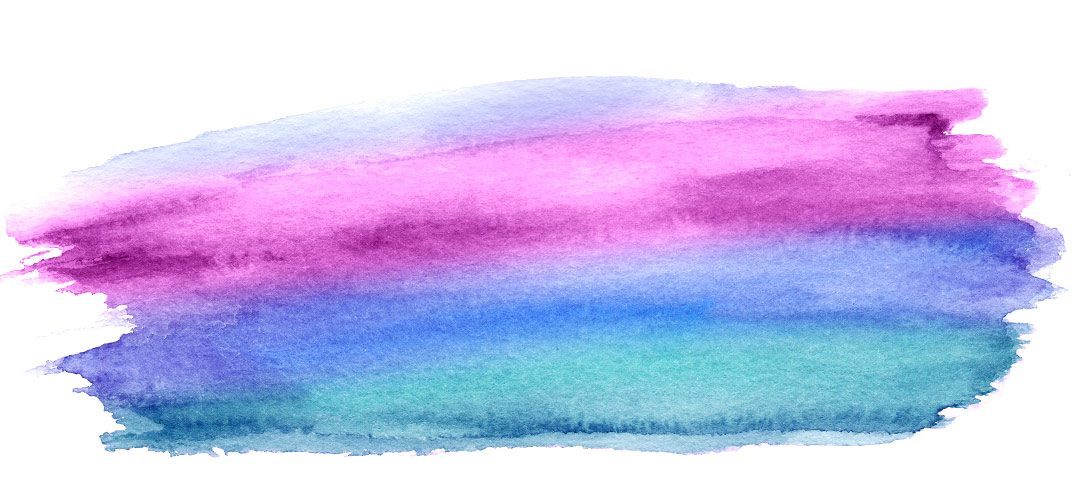
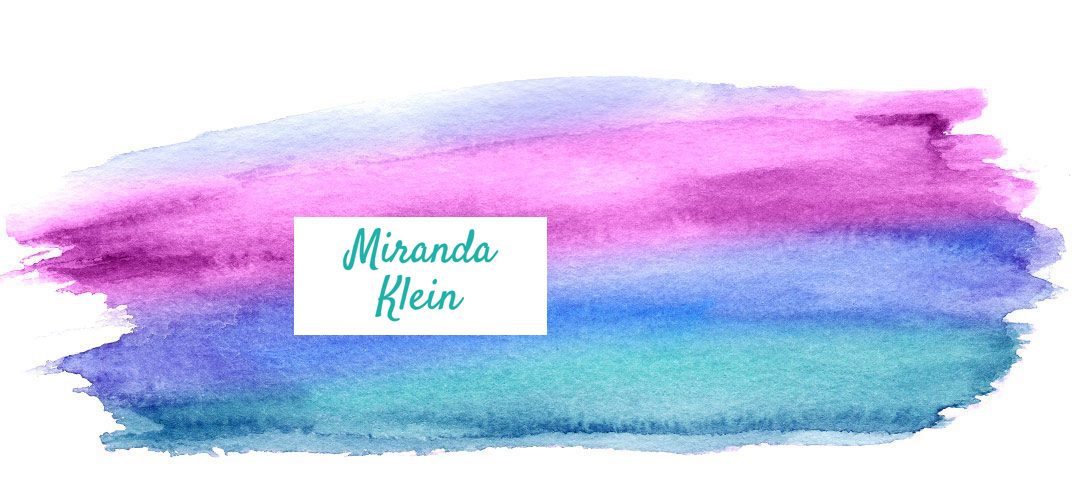
updated styling

Changed region(s): [[0.2444, 0.4348, 0.5194, 0.7143]]

diff --git a/src/App.css b/src/App.css
@@ -6,11 +6,18 @@
   display: block;
 
 }
-
-.App-header {
+.header{
   width: 100%;
-  height: 300px;
+  margin: 20px;
+}
+.App-header {
+  margin: auto;
+  padding: 20px;
+  text-align: center; 
+  width: 20%;
+  height: auto;
   color: white;
+  display: block;
 }
 
 
@@ -41,7 +48,7 @@ li.nav-list a {
 }
 
 /* Change the link color to #111 (black) on hover */
-li.nav-list a:hover {
+li.nav-list :hover {
   background-color: lightslategrey;
   color: white;
   
@@ -57,6 +64,7 @@ li.nav-list a:hover {
   background-color: blue;
   display: flex;
   flex-wrap: wrap;
+  height: auto;
 }
 .photo-container{
   width: 40%;
@@ -86,11 +94,11 @@ margin: 10px;
 .contact{
   width: 100%;
   display: block;
+  background-color: lightyellow;
 }
 ul.contact-info{
-  background-color: lightyellow;
-  list-style: none;
-  font-size: 2vw;
+   list-style: none;
+  font-size: 25px;
   padding: 20px 20px;
   text-align: center;
 }
@@ -121,6 +129,11 @@ ul.contact-info{
 /*~~~~~Media Query for Phone/Tablet~~~~~*/
 @media only screen and (max-width : 873px){
  
+ 
+  /*Header*/
+  .App-header{
+    width: 40%;
+  }
 
   /*Nav*/
   .nav-bar{
@@ -136,7 +149,10 @@ ul.contact-info{
   width: 200px;
   background-color: #f1f1f1;
 }
-
+li.nav-list {
+  width: 100%;
+  font-size: 80%;
+}
 li.nav-list a {
   display: block;
   color: gray;
@@ -148,12 +164,18 @@ li.nav-list a {
   .bio{
     width: 70%;
     float: right;
+    height: 100%;
   }
   .bio-container{
     width: 100%;
   }
   .photo-container{
     width: 100%;
+  }
+
+  /*Contact*/
+  ul.contact-info{
+    font-size: 15px;
   }
 }
 

diff --git a/src/components/bio.js b/src/components/bio.js
@@ -8,7 +8,22 @@ class Bio extends Component{
                     <img src={this.props.photo} alt="Miranda" className="miranda-photo"></img>
                 </div> 
                 <div className="bio-container">
-                {this.props.name} is a Front End Web Developer living in the Denver Metro since 2015.
+                    Fetter grüne, du Laub,
+                    Am Rebengeländer
+                    Hier[mein Fenster herauf!] 1
+                    Gedrängter quellet,
+                    Zwillingsbeeren, und reifet
+                    Schneller und glänzend[voller] 2!
+                        Euch brütet der Mutter Sonne
+                    Scheideblick, euch umsäuselt
+                    Des holden Himmels
+                    Fruchtende Fülle;
+                    Euch kühlet des Mondes
+                    Freundlicher Zauberhauch,
+                    Und euch betauen, ach!
+                        Aus diesen Augen
+                    Der ewig belebenden Liebe
+                    Voll schwellende Tränen.
                 </div>
             </div>
         );

diff --git a/src/App.js b/src/App.js
@@ -2,6 +2,7 @@ import React, { Component } from 'react';
 import { Route } from 'react-router-dom';
 import watercolor from './images/watercolor.jpg';
 import Miranda from './images/miranda.jpg';
+import logo from './images/logo2.png';
 import './App.css';
 import Bio from './components/bio.js';
 import Nav from './components/nav.js';
@@ -14,7 +15,7 @@ class App extends Component {
     return (
       <div className="App">
         <header>
-          <img src={watercolor} className="App-header" alt="logo" />
+          <img src={logo} className="App-header" alt="logo" />
         </header>
           <Nav />
           <Route exact path="/" render={() => (
